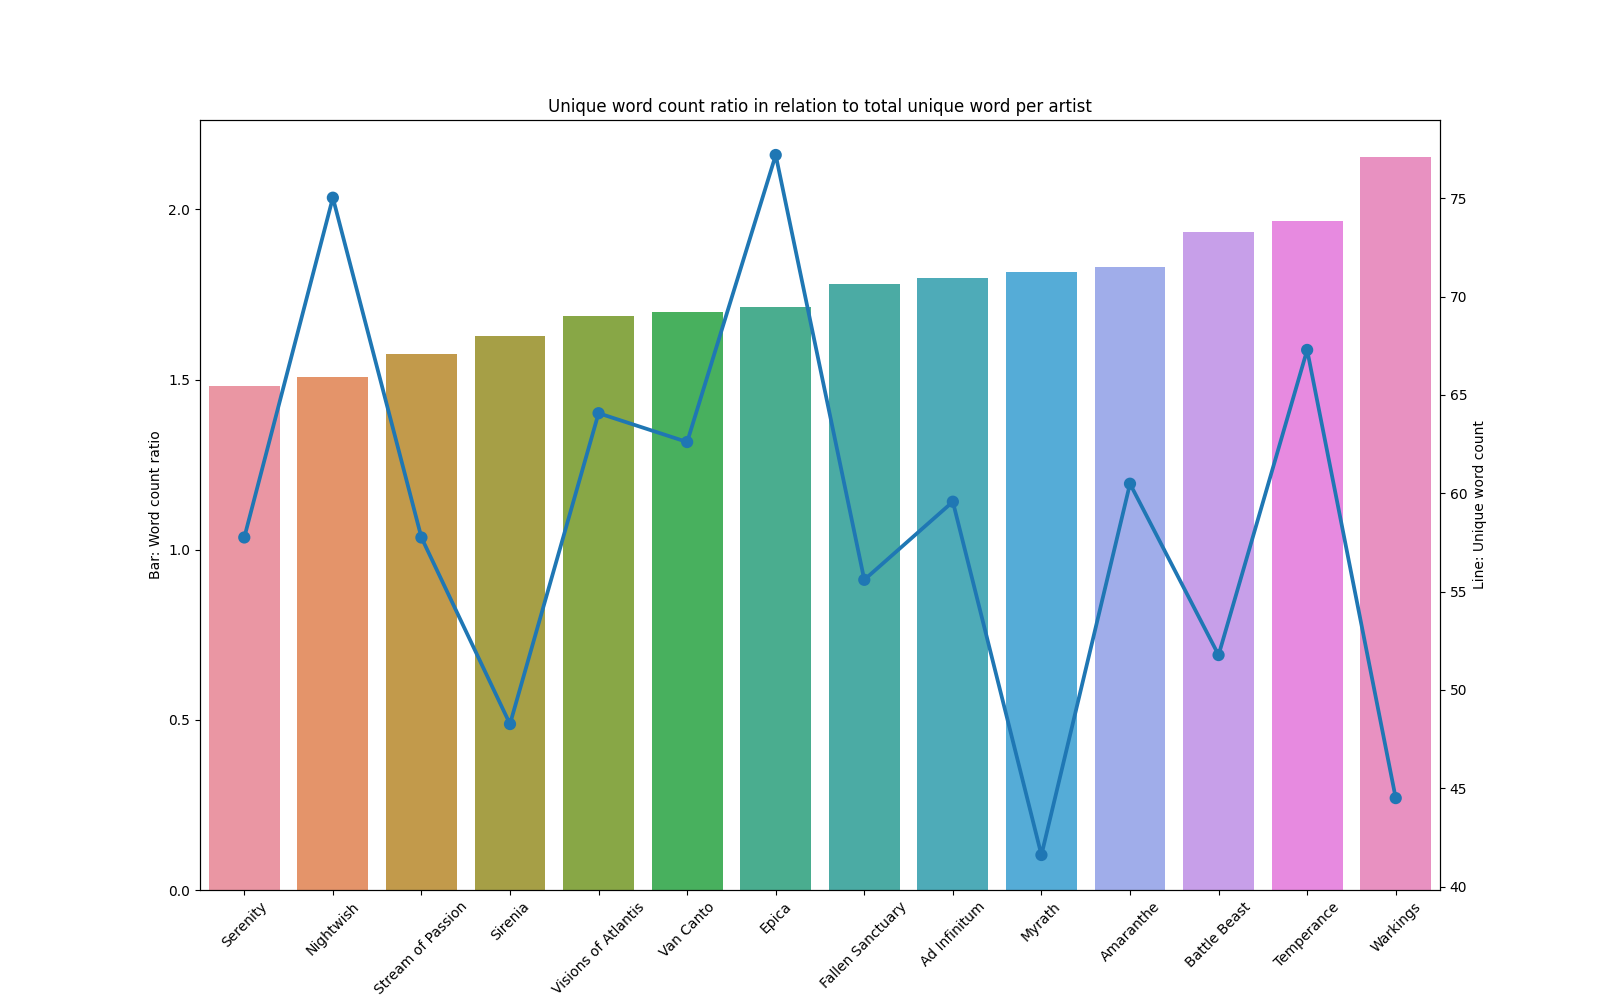
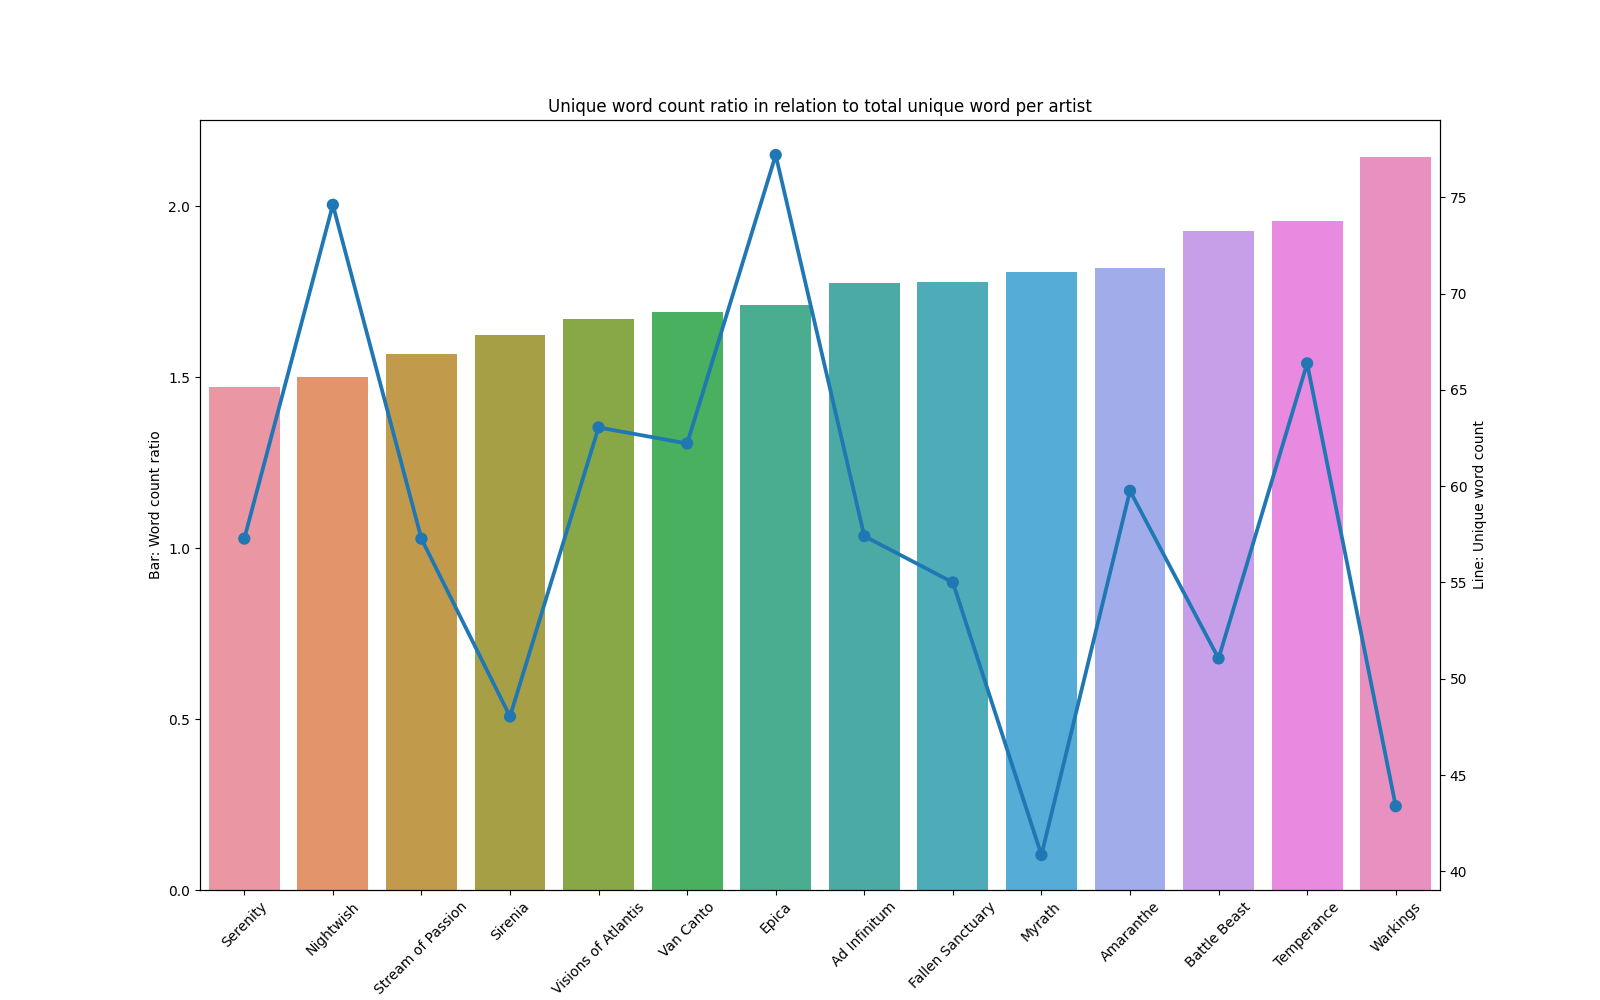
feat: add most common word

diff --git a/lyrics_analysis/04_most_common_word.py b/lyrics_analysis/04_most_common_word.py
@@ -1,0 +1,44 @@
+from collections import Counter
+
+import polars as pl
+from matplotlib import pyplot as plt
+
+
+####################################
+# prep data
+####################################
+df = pl.read_ndjson("data/lyrics_processed.json")
+
+df = (
+    df.filter(pl.col("tokens").is_not_null())
+    .groupby("artist")
+    .agg(pl.col("tokens").flatten())
+    .with_columns(
+        pl.col("tokens")
+        .apply(lambda x: dict(Counter(x).most_common(10)))
+        .alias("count")
+    )
+    .select("artist", "count")
+    .sort("artist")
+)
+print(df)
+
+####################################
+# visualize A: word count ratio
+####################################
+data = df.rows(named=True)
+
+fig, axs = plt.subplots(
+    len(data), figsize=(10, 70)
+)  # adjust figure size here if it's too cramped
+for index, i in enumerate(data):
+    word_count = i["count"]
+    word_count = {k: v for k, v in word_count.items() if v is not None}
+    word_count = dict(
+        sorted(word_count.items(), key=lambda item: item[1], reverse=True)
+    )
+
+    axs[index].bar(word_count.keys(), word_count.values())
+    axs[index].set_title(i["artist"])
+
+fig.savefig("images/most_common_word.png")

diff --git a/lyrics_analysis/02_process.py b/lyrics_analysis/02_process.py
@@ -1,5 +1,3 @@
-# from sklearn.decomposition import NMF, LatentDirichletAllocation
-# from sklearn.feature_extraction.text import CountVectorizer, TfidfVectorizer
 import nltk
 import polars as pl
 from nltk.corpus import stopwords
@@ -23,6 +21,7 @@ lemmatizer = WordNetLemmatizer()
 
 def tokenize(x):
     tokens = [lemmatizer.lemmatize(i.lower()) for i in word_tokenize(x) if len(i) > 3]
+    tokens = [i for i in tokens if i not in ["chorus", "verse", "pre-chorus"]]
     return [word for word in tokens if word not in stopwords.words("english")]
 
 

diff --git a/README.md b/README.md
@@ -7,7 +7,8 @@ Updated version of <https://github.com/kahnwong/lyrics_visualization>
 1. `make setup`
 2. Edit `lyrics_analysis/01_extract.py` to match your data source (this is what we'll use for actual analysis). See `lyrics_analysis\model\lyrics.py` for expected input format. Resulting file is located in `data/lyrics.json` in single-line JSON format.
 3. Run `python3 lyrics_analysis/02_process.py` to tokenize lyrics.
-4. Run `lyrics_analysis/03_analyze_word_count.py` to obtain a visuzliation.
+4. Run `python3 lyrics_analysis/03_analyze_word_count.py` to obtain a visualization.
+05. Run `python3 lyrics_analysis/04_most_common_word.py` to obtain a visualization.
 
 ## Findings
 
@@ -22,3 +23,9 @@ Updated version of <https://github.com/kahnwong/lyrics_visualization>
 
 - Nightwish has a wide q4, since their lyrics contain a lot of spoken words.
 - Most bands are not on the "wordy" side, see Warkings and Ad Infinitum.
+
+### Most common word
+
+![most common word](images/most_common_word.png)
+
+- Warkings does really love to fight. (It's in the name shhhh.)
